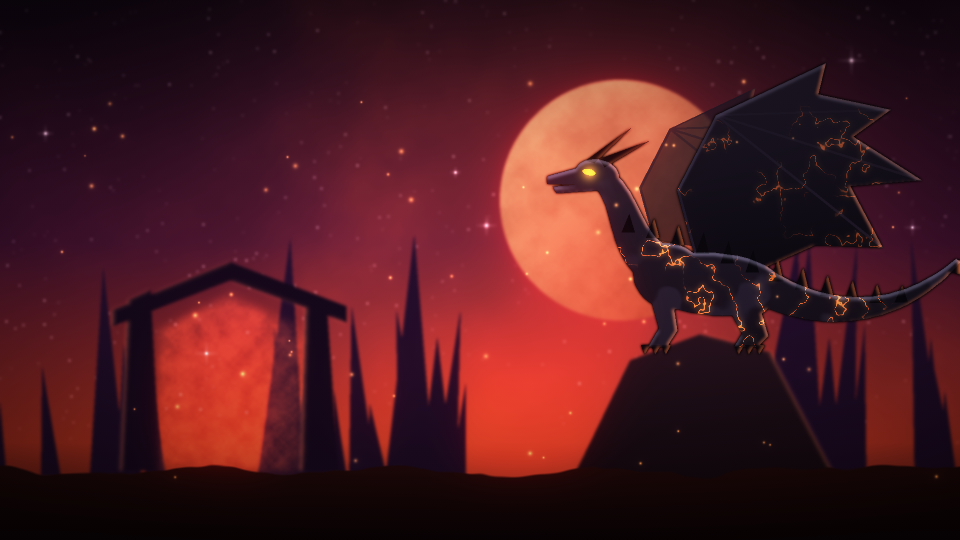
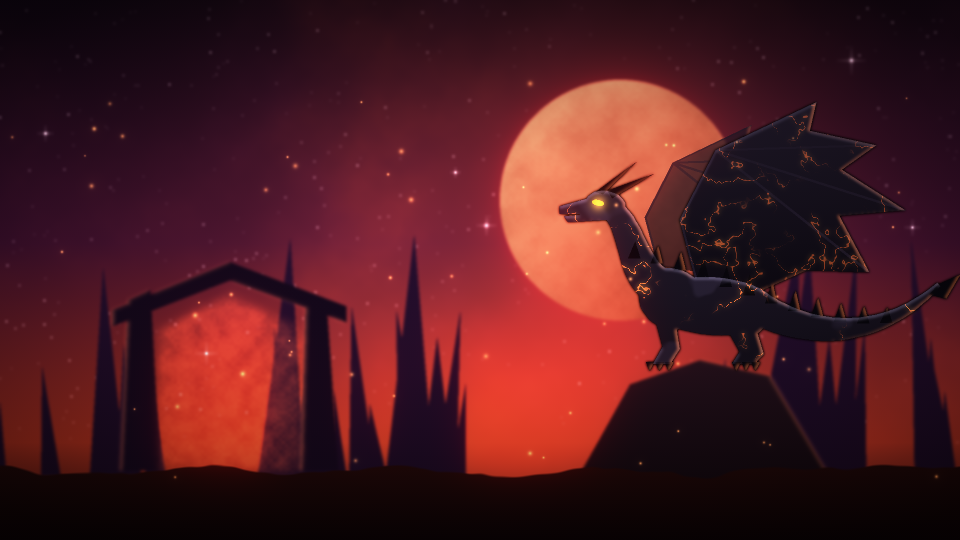
Histoire de Pyrrhax : le gardien de la frontière entier dans le cadre (ailes sous la bande du haut)
Claude-Session: https://claude.ai/code/session_01QqM7amBZEc2xH65DxoKFa4

Changed region(s): [[0.5625, 0.1185, 1.0, 0.8593], [0.75, 0.3259, 0.8125, 0.3852], [0.5938, 0.8, 0.625, 0.8593]]

diff --git a/tools/assetgen/environment/story_pyrrhax.py b/tools/assetgen/environment/story_pyrrhax.py
@@ -460,10 +460,10 @@ def shot6():
     seal = Mask().poly([(160, 470), (160, 330), (230, 296), (300, 330), (300, 470)]).get(4)
     c.add("#ff5a2a", seal * (0.4 + 0.6 * fbm(1607, 12, 3)), 0.35)
     # his rock, a tall spire on the right
-    peak = Mask().poly([(540, 545), (630, 360), (700, 334), (770, 352), (870, 545)]).get(0.6)
+    peak = Mask().poly([(540, 545), (630, 384), (700, 360), (770, 376), (870, 545)]).get(0.6)
     c.over(c.gradient_field(0, 300, 0, 545, "#2a1420", "#0a0408"), peak)
     c.add("#ff7a4a", rim(peak, -2, 0, 0.8), 0.5)
-    dragon(c, 706, 284, 1.3, GLASS, flip=True, wings=1.0, light=(1, 0.2), light_color="#ff7a3a", light_k=0.9, cracks=0.8, seed=1609,
+    dragon(c, 706, 306, 1.2, GLASS, flip=True, wings=1.0, light=(1, 0.2), light_color="#ff7a3a", light_k=0.9, cracks=0.8, seed=1609,
            neck_up=0.6)
     ground(c, 470, 1611, "#0a0204", "#1e0808")
     embers(c, 1613, 60, (0, 80, 960, 480), "#ff9a4a", (1.0, 2.6))
